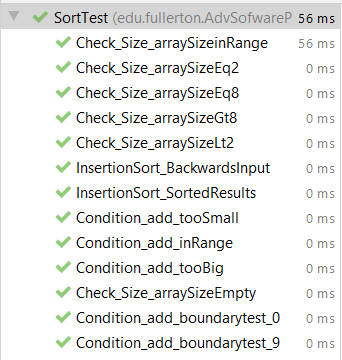
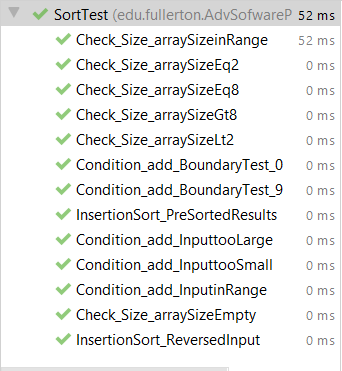
SortTest.java test cases update.

Changed region(s): [[0.0, 0.0, 1.0, 1.0], [0.8772, 0.3056, 0.9942, 0.9778]]

diff --git a/app/src/test/java/edu/fullerton/AdvSofwareProcess/InsertionSortApp/SortTest.java b/app/src/test/java/edu/fullerton/AdvSofwareProcess/InsertionSortApp/SortTest.java
@@ -23,7 +23,7 @@ public class SortTest {
     }
     
     @Test
-    public void InsertionSort_SortedResults() {
+    public void InsertionSort_PreSortedResults() {
         ArrayList<Integer> testArray = new ArrayList<>(Arrays.asList(0, 1, 3, 2, 5));
 
         ArrayList<Integer> expectedResult = new ArrayList<>(Arrays.asList(0, 1, 2, 3, 5));
@@ -34,7 +34,7 @@ public class SortTest {
     }
 
     @Test
-    public void InsertionSort_BackwardsInput() {
+    public void InsertionSort_ReversedInput() {
         ArrayList<Integer> testArray = new ArrayList<>(Arrays.asList(5, 3, 2, 1, 0));
 
         ArrayList<Integer> expectedResult = new ArrayList<>(Arrays.asList(0, 1, 2, 3, 5));
@@ -45,7 +45,7 @@ public class SortTest {
     }
 
     @Test
-    public void Condition_add_tooSmall() {
+    public void Condition_add_InputtooSmall() {
 
         boolean expectedResult = false;
 
@@ -55,7 +55,7 @@ public class SortTest {
     }
 
     @Test
-    public void Condition_add_tooBig() {
+    public void Condition_add_InputtooLarge() {
         boolean expectedResult = false;
 
         boolean actualResult = mockSort.Condition_add(10);
@@ -64,7 +64,7 @@ public class SortTest {
     }
 
     @Test
-    public void Condition_add_inRange() {
+    public void Condition_add_InputinRange() {
         boolean expectedResult = true;
 
         boolean actualResult = mockSort.Condition_add(4);
@@ -75,7 +75,7 @@ public class SortTest {
     }
 
     @Test
-    public void Condition_add_boundarytest_0() {
+    public void Condition_add_BoundaryTest_0() {
         boolean expectedResult = true;
 
         boolean actualResult = mockSort.Condition_add(0);
@@ -84,7 +84,7 @@ public class SortTest {
     }
 
     @Test
-    public void Condition_add_boundarytest_9() {
+    public void Condition_add_BoundaryTest_9() {
         boolean expectedResult = true;
 
         boolean actualResult = mockSort.Condition_add(9);
